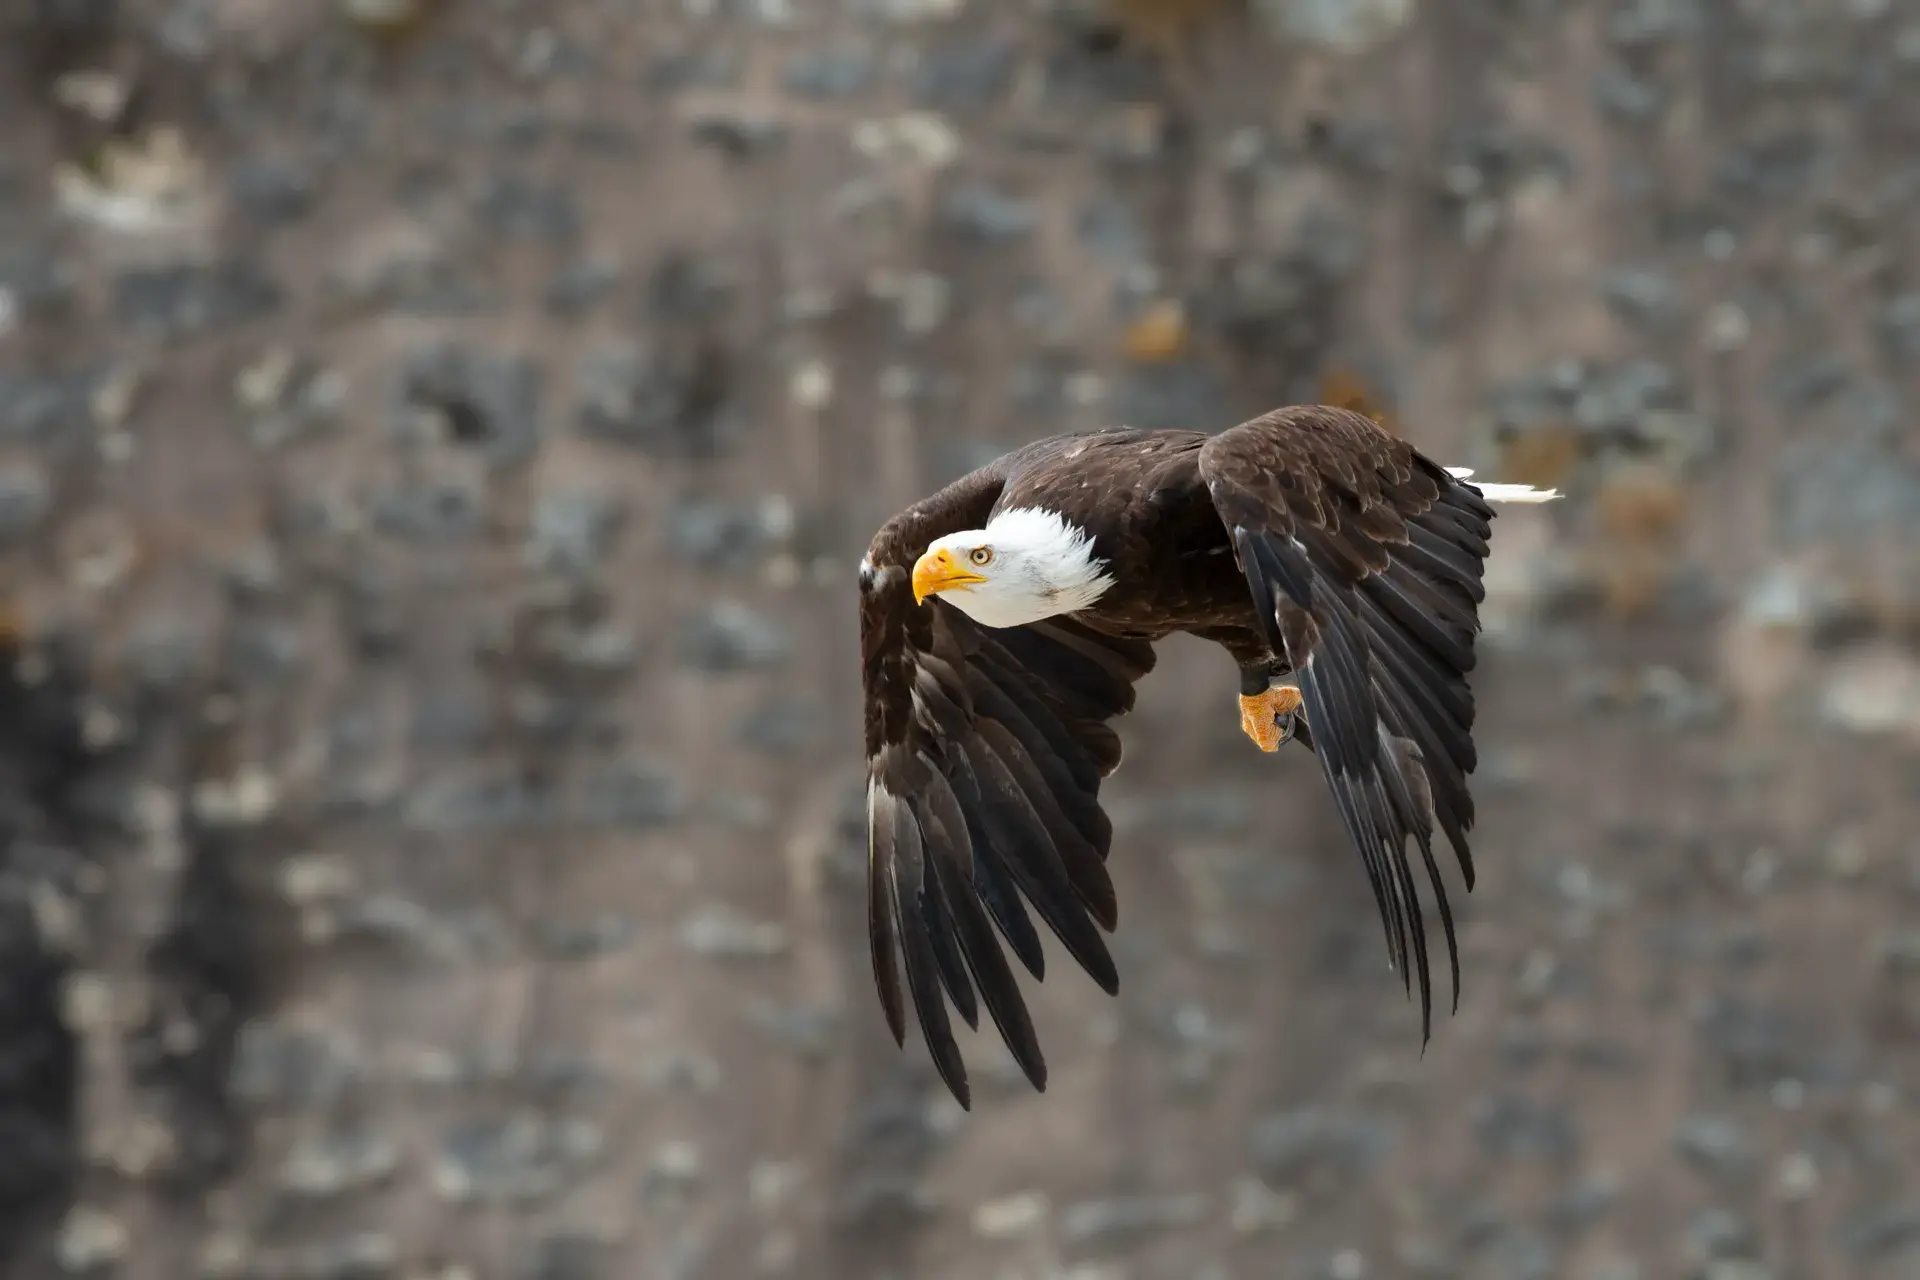
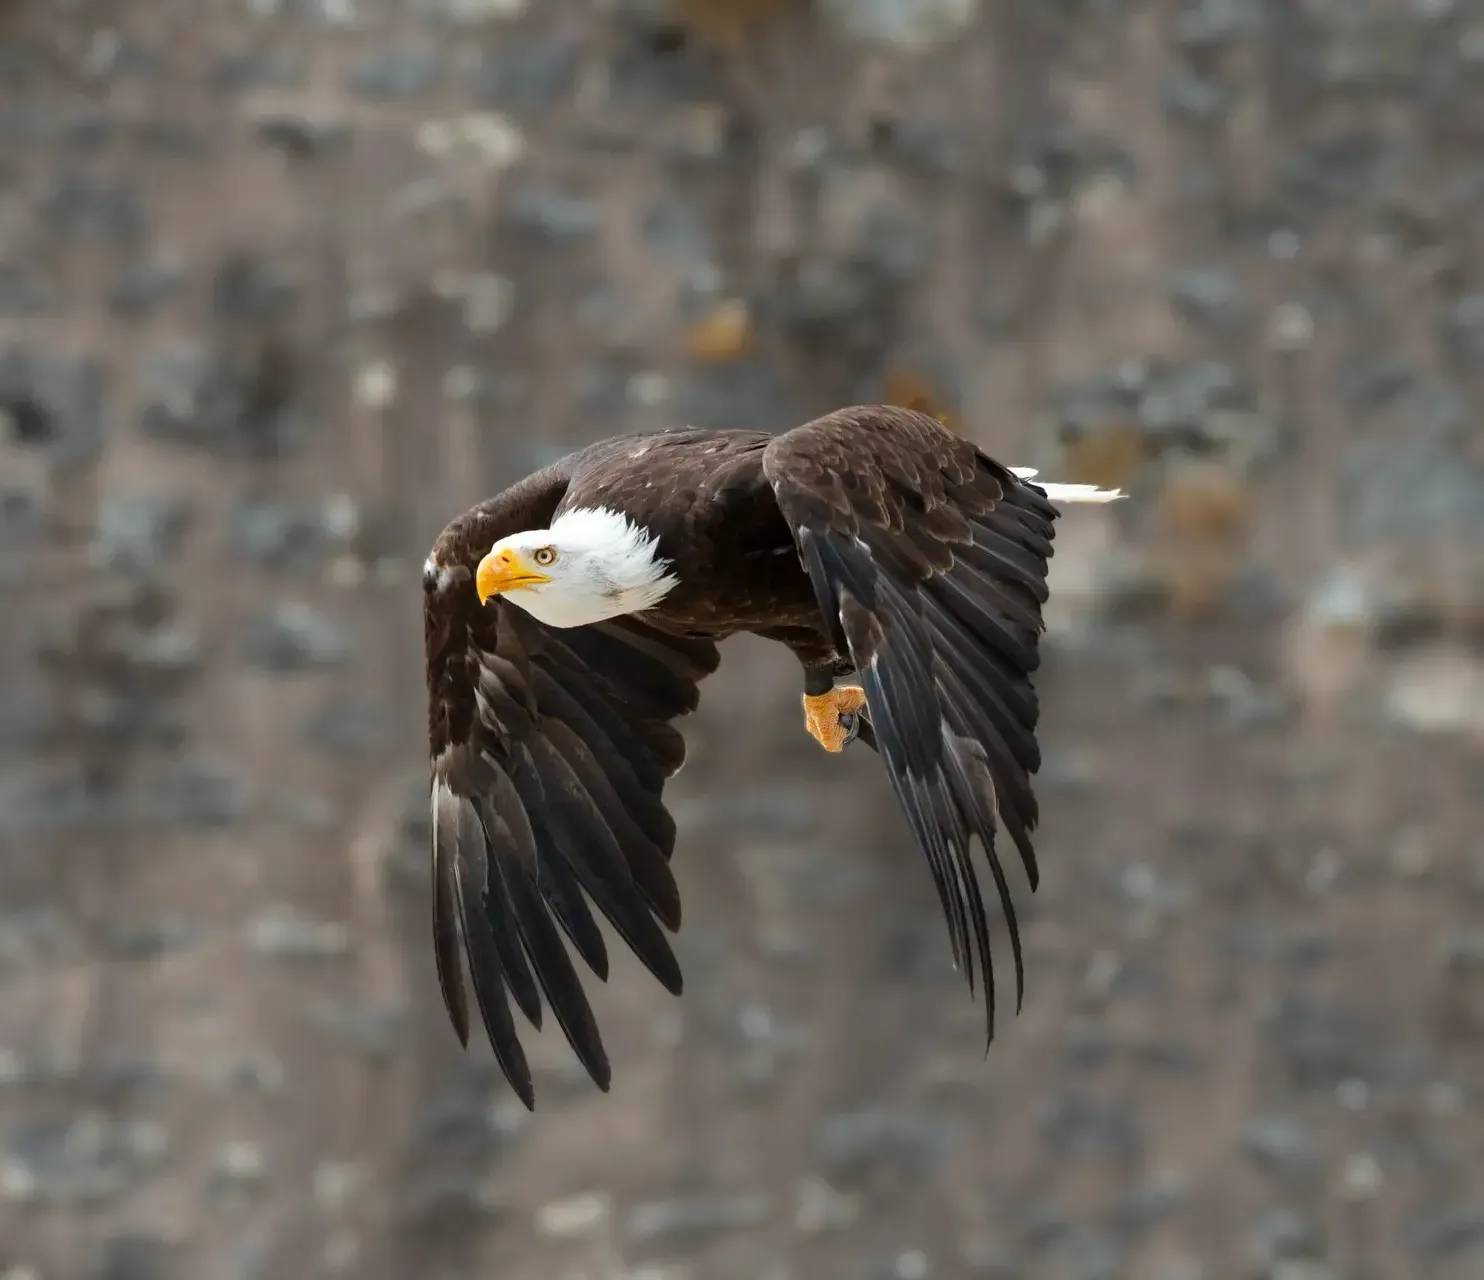
burger ok

diff --git a/index.html b/index.html
@@ -54,11 +54,12 @@
 <body>
 
   <nav class="navbar">
-    <a href="#anchor-home" class="active">ACCUEIL</a>
+    <a href="#anchor-home">ACCUEIL</a>
     <a href="#anchor-apropos">À PROPOS</a>
     <a href="#anchor-portfolio">PORTFOLIO</a>
     <a href="#anchor-contact">CONTACT</a>
-    <a href="#" class="mention-link" data-modal-target="actus-modal">ACTUS & EXPOS</a>   
+    <a href="#" class="mention-link" data-modal-target="actus-modal">ACTUS & EXPOS</a>  
+    <a href="#anchor-mentions">MENTIONS</a> 
     <img src="assets/images/index/user02.png" alt="Icone utilisateur" id="user">
     <a href="#" class="connect">Connexion</a>
 
@@ -68,6 +69,19 @@
       <span></span>
       <span></span>
     </div>
+
+    <!-- Menu mobile, à afficher/masquer via JS et CSS -->
+      <div class="burger-menu">
+        <a href="#anchor-home">ACCUEIL</a>
+        <a href="#anchor-apropos">À PROPOS</a>
+        <a href="#anchor-portfolio">PORTFOLIO</a>
+        <a href="#anchor-contact">CONTACT</a>
+        <a href="#" class="mention-link" data-modal-target="actus-modal">ACTUS & EXPOS</a>  
+        <a href="#anchor-mentions">MENTIONS</a> 
+        <img src="assets/images/index/user.png" alt="Icone utilisateur" id="user-mobile">
+        <a href="#" class="connect">Connexion</a>
+      </div>
+
   </nav>
   <section class="hero"  id="anchor-home">
     <div class="social">
@@ -147,7 +161,7 @@
       </div>
       <div class="grid-item" data-gallery="portrait">
         <img loading="lazy"
-             src="assets/images/entetes-galeries/portrait.jpg"
+             src="assets/images/entetes-galeries/portrait.webp"
              alt="Galerie d'images de Portraits">
       </div>
     </div>
@@ -177,7 +191,7 @@
     <span class="contact-sentinel" aria-hidden="true"></span>
 
       <div class="formulaire">
-          <div class="apropos">
+          <div class="text-contact">
             <h2>Me contacter</h2>
             <hr class="separator">
             <p>Les Casseaux</p>
@@ -206,14 +220,14 @@
           </form>
       </div>            
       <div class="photo-contact">
-          <img src="assets/images/index/contact.jpg" alt="Photo formulaire de contact: aigle volant">
+          <img src="assets/images/index/contact.webp" alt="Photo formulaire de contact: aigle volant">
       </div>
   </section>
 
   <section>
   </section>
 
-  <footer>
+  <footer id="anchor-mentions">
     <div class="back-to-top">
       <a href="#anchor-home">
         <img src="assets/images/index/up-arrow.png" alt="Home">
@@ -234,9 +248,7 @@
       <a href="#" class="mention-link" data-modal-target="terms-modal">
         Conditions d’utilisation
       </a>
-      <a href="#" class="mention-link" data-modal-target="actus-modal">
-        Actus
-      </a>
+     
     </div>
 
     
@@ -630,6 +642,7 @@
 
   <script src="assets/scripts/prevent-copy.js" defer></script>
   <script src="assets/scripts/navhide.js" defer></script>
+  <script src="assets/scripts/burger.js" defer></script>
   <script src="assets/scripts/smooth-scroll.js" defer></script>
   <script src="assets/scripts/email.js" defer></script>
   <script src="https://unpkg.com/imagesloaded@4/imagesloaded.pkgd.min.js"></script>

diff --git a/assets/styles/responsive.css b/assets/styles/responsive.css
@@ -99,6 +99,31 @@
   .section-contact .photo-contact {
     width: 100%;
   }
+/* Texte contact */
+.text-contact {
+  width: 100%;
+}
+.text-contact h2 {
+  font-size: 40px;
+  padding-left: 50px;
+  margin: 50px 0 50px 0;
+}
+.separator {
+  border: none;
+  border-top: 1px solid #000;
+  width: 60px;
+  margin: 0 0 40px 50px;
+}
+.text-contact p {
+  font-family: 'Exo 2', sans-serif;
+  font-size: 1.1rem !important;
+  text-align: left;
+  line-height: 1.5rem !important;
+  margin-bottom: 20px;
+  padding: 0 50px;
+}
+
+
 
   .formulaire {
     align-items: center !important;
@@ -126,6 +151,13 @@
   height: 60px;
 }
 
+
+
+
+
+
+
+
 }
 
 
@@ -150,6 +182,54 @@
   padding: 0 20px;
 }
 
+#actus-modal,
+#legal-modal,
+#cookies-modal,
+#privacy-modal,
+#terms-modal {
+  top: 0; left: 0; width: 100vw; height: 100vh;
+}
+
+#actus-modal .legal-content,
+#legal-modal .legal-content,
+#cookies-modal .legal-content,
+#privacy-modal .legal-content,
+#terms-modal .legal-content {
+  width: 100%;
+}
+
+#actus-modal .close-btn,
+#legal-modal .close-btn,
+#cookies-modal .close-btn,
+#privacy-modal .close-btn,
+#terms-modal .close-btn {
+  
+  top: 12px;
+  right: 18px;
+  font-size: 3rem;
+  color: #6a6a6a;
+  cursor: pointer;
+  background: none;
+  border: none;
+  line-height: 1;
+  user-select: none;
+}
+  /*Diaporama*/
+  #modal .close-btn {
+    font-size: 4rem;
+    top: 0px;
+    right: 12px;
+  }
+  /*Mentions et actus*/
+  #actus-modal .close-btn,
+  #legal-modal .close-btn,
+  #cookies-modal .close-btn,
+  #privacy-modal .close-btn,
+  #terms-modal .close-btn {
+    font-size: 8rem;
+    top: 12px;
+    right: 12px;
+  }
 }
 
 @media (max-width: 430px) {

diff --git a/assets/styles/burger.css b/assets/styles/burger.css
@@ -1,0 +1,68 @@
+/* Burger menu */
+.burger {
+    display: none;
+    flex-direction: column;
+    justify-content: space-between;
+    width: 25px;
+    height: 18px;
+    cursor: pointer;
+    position: absolute;
+    right: 30px;
+  }
+  
+  .burger span {
+    display: block;
+    height: 3px;
+    background: #333;
+    border-radius: 2px;
+  }
+
+
+.burger-menu {
+    display: none;
+    position: fixed;
+    top: 60px; /* hauteur de la nav */
+    left: 0;
+    width: 100vw;
+    background: #fff;
+    flex-direction: column;
+    z-index: 1001;
+    box-shadow: 0 2px 16px rgba(0,0,0,0.08);
+    padding: 30px 0 30px 0;
+  }
+  
+  .burger-menu a {
+    display: block;
+    margin: 14px 0;
+    font-size: 20px;
+    color: #222;
+    text-align: center;
+  }
+  
+  .burger-menu img {
+    display: block;
+    margin: 20px auto;
+    height: 32px;
+  }
+  .burger.active + .burger-menu, /* affichage au clic */
+  .burger-menu.active {
+    display: flex;
+  }
+
+
+  @media (max-width: 950px) {
+    .navbar > a,
+    .navbar > img,
+    .navbar > .connect {
+      display: none;
+    }
+    .burger {
+      display: flex;
+    }
+    .burger-menu {
+      display: none;
+    }
+    .burger-menu.active {
+      display: flex;
+    }
+  }

diff --git a/assets/styles/contact.css b/assets/styles/contact.css
@@ -102,3 +102,30 @@ button {
 .apropos.reveal p:nth-of-type(4) { animation-delay: 0.4s; }
 .apropos.reveal p:nth-of-type(5) { animation-delay: 0.5s; }
 .apropos.reveal p:nth-of-type(6) { animation-delay: 0.6s; }
+
+/* Texte contact */
+.text-contact {
+  width: 50%;
+}
+.text-contact h2 {
+  font-size: 40px;
+  padding-left: 50px;
+  margin: 50px 0 50px 0;
+}
+.separator {
+  border: none;
+  border-top: 1px solid #000;
+  width: 60px;
+  margin: 0 0 40px 50px;
+}
+.text-contact p {
+  font-family: 'Exo 2', sans-serif;
+  font-size: 1.1rem !important;
+  text-align: left;
+  line-height: 1.5rem !important;
+  margin-bottom: 20px;
+  padding: 0 50px;
+}
+
+
+

diff --git a/assets/scripts/burger.js b/assets/scripts/burger.js
@@ -1,0 +1,15 @@
+document.addEventListener("DOMContentLoaded", function() {
+    const burger = document.querySelector('.burger');
+    const burgerMenu = document.querySelector('.burger-menu');
+    burger.addEventListener('click', function() {
+      burgerMenu.classList.toggle('active');
+    });
+  
+    // Fermer le menu après clic sur un lien
+    burgerMenu.querySelectorAll('a').forEach(link => {
+      link.addEventListener('click', () => {
+        burgerMenu.classList.remove('active');
+      });
+    });
+  });
+  

diff --git a/assets/styles/nav.css b/assets/styles/nav.css
@@ -66,22 +66,5 @@ nav {
     height: 30px;
   }
   
-  /* Burger menu */
-  .burger {
-    display: none;
-    flex-direction: column;
-    justify-content: space-between;
-    width: 25px;
-    height: 18px;
-    cursor: pointer;
-    position: absolute;
-    right: 30px;
-  }
   
-  .burger span {
-    display: block;
-    height: 3px;
-    background: #333;
-    border-radius: 2px;
-  }
   

diff --git a/assets/styles/modal.css b/assets/styles/modal.css
@@ -45,8 +45,8 @@
   position: absolute;
   top: 12px;
   right: 18px;
-  font-size: 2.2rem;
-  color: #333;
+  font-size: 3rem;
+  color: #6a6a6a;
   cursor: pointer;
   background: none;
   border: none;

diff --git a/styles.css b/styles.css
@@ -14,3 +14,4 @@
 @import "assets/styles/diaporama.css";
 @import "assets/styles/modal.css";
 @import "assets/styles/actus.css";
+@import "assets/styles/burger.css";
